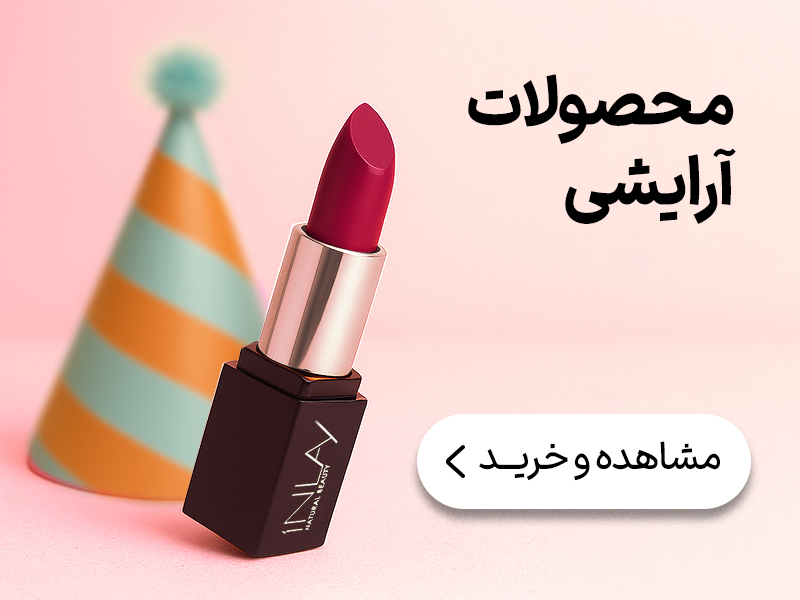
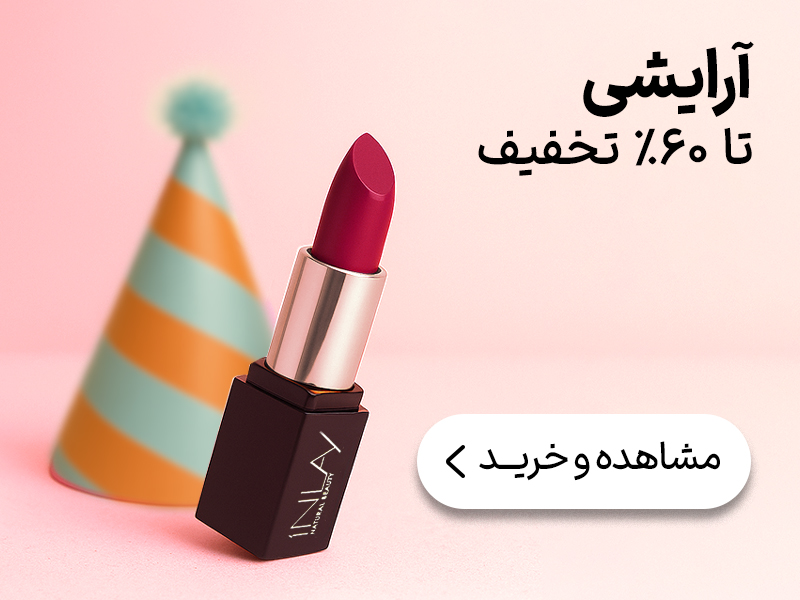
ready to launch

Changed region(s): [[0.0, 0.06, 0.5, 0.96], [0.5625, 0.06, 0.9375, 0.39], [0.125, 0.69, 0.1562, 0.72]]

diff --git a/index.html b/index.html
@@ -4,9 +4,9 @@
 <head>
     <meta charset="UTF-8" />
     <meta name="viewport" content="width=device-width, initial-scale=1.0" />
-    <title>جشن تولد خانومی | هدیه بگیر و خوشحال شو!</title>
+    <title>تولد 11 سالگی خانومی تا 70% تخفیف ( 10 خرداد، ساعت 9 شب)</title>
     <meta name="description"
-        content="در جشن تولد خانومی شرکت کن! محصولات محبوب با تخفیف، هدیه ویژه، و شانس برنده شدن طلا 🎉 فقط برای مدت محدود!">
+        content="جشنواره تولد ۱۱ سالگی خانومی با حراج تمامی محصولات تا ۷۰٪ تخفیف از ۱۹ خرداد 1404 ساعت ۹ شب">
     <link rel="icon" href="https://www.khanoumi.com/favicon.ico" type="image/x-icon">
 
     <link rel="stylesheet" href="styles.css?v=1.0.1" />
@@ -64,12 +64,13 @@
 
 
         <section class="hero-banner" style="margin-top: 8px;">
+            <a href="https://www.khanoumi.com/landing/gamification">
             <picture>
                 <!-- Mobile -->
-                <source media="(max-width: 768px)" srcset="media/candle-355x78.jpg" />
+                <source media="(max-width: 768px)" srcset="media/candle2-355x78.jpg" />
                 <!-- Desktop -->
-                <img src="media/candle-1920x250.jpg" alt="بنر دوم" class="banner-img" />
-            </picture>
+                <img src="media/candle2-1920x250.jpg" alt="بنر دوم" class="banner-img" />
+            </picture></a>
         </section>
 
         <!-- بخش پیشنهاد تولد -->
@@ -161,10 +162,10 @@
         <section class="category-section">
             <h2 class="category-title">جمعمون جمعه، یه دورهمی بزرگ داریم</h2>
             <div class="category-row">
-                <a href="#" class="category-card"><img src="media/01-jute.jpg" alt="محصولات ژوت"></a>
-                <a href="#" class="category-card"><img src="media/01-gynagen.jpg" alt="محصولات ژیناژن"></a>
-                <a href="#" class="category-card"><img src="media/01-sunsafe.jpg" alt="محصولات سان سیف"></a>
-                <a href="#" class="category-card"><img src="media/01-synskin.jpg" alt="محصولات ساین اسکین"></a>
+                <a href="https://www.khanoumi.com/brands/jute" class="category-card"><img src="media/03-jute.jpg" alt="محصولات ژوت"></a>
+                <a href="https://www.khanoumi.com/brands/ginagen" class="category-card"><img src="media/03-gynagen.jpg" alt="محصولات ژیناژن"></a>
+                <a href="https://www.khanoumi.com/brands/sunsafe" class="category-card"><img src="media/03-sunsafe.jpg" alt="محصولات سان سیف"></a>
+                <a href="https://www.khanoumi.com/brands/syn-skin" class="category-card"><img src="media/03-synskin.jpg" alt="محصولات ساین اسکین"></a>
             </div>
         </section>
         <!--  -->
@@ -239,9 +240,9 @@
         <section class="hero-banner" style="margin-top: 8px;">
             <picture>
                 <!-- Mobile -->
-                <source media="(max-width: 768px)" srcset="media/snappay-355x78.jpg" />
+                <source media="(max-width: 768px)" srcset="media/snappay2-355x78.jpg" />
                 <!-- Desktop -->
-                <img src="media/snappay-1920x250.jpg" alt="بنر دوم" class="banner-img" />
+                <img src="media/snappay2-1920x250.jpg" alt="بنر دوم" class="banner-img" />
             </picture>
         </section>
 
@@ -254,22 +255,19 @@
             </picture>
         </section> -->
 
-
-
-
-
         <!-- بخش دستهبندی محصولات -->
         <section class="category-section">
             <h3 class="category-title">یه چرخ بزن، هر چی انتظارشو نداشتی داریم</h3>
             <div class="category-row">
-                <a href="#" class="category-card"><img src="media/02-accessory.jpg" alt="اکسسوری"></a>
-                <a href="#" class="category-card"><img src="media/02-haircare.jpg" alt="مراقبت از مو"></a>
-                <a href="#" class="category-card"><img src="media/02-makeup.jpg" alt="آرایشی"></a>
-                <a href="#" class="category-card"><img src="media/02-moistrizer.jpg" alt="مرطوب کننده"></a>
-                <a href="#" class="category-card"><img src="media/02-sunscreen.jpg" alt="ضدآفتاب"></a>
-                <a href="#" class="category-card"><img src="media/02-complimentary.jpg" alt="مکمل غذایی"></a>
-                <a href="#" class="category-card"><img src="media/02-perfume.jpg" alt="عطر"></a>
-                <a href="#" class="category-card"><img src="media/02-electric.jpg" alt="لوازم برقی"></a>
+                <a href="https://www.khanoumi.com/categories/makeup" class="category-card"><img src="media/02-makeup.jpg" alt="آرایشی"></a>
+                <a href="https://www.khanoumi.com/categories/skincare/face-care/sun-block-sun-protecter" class="category-card"><img src="media/02-sunscreen.jpg" alt="ضدآفتاب"></a>
+                <a href="https://www.khanoumi.com/categories/nutritional-sports-supplement" class="category-card"><img src="media/02-supplement.jpg" alt="مکمل غذایی"></a>
+                <a href="https://www.khanoumi.com/categories/electrical-personal-care" class="category-card"><img src="media/02-electric.jpg" alt="لوازم برقی"></a>
+                <a href="https://www.khanoumi.com/categories/scented-products" class="category-card"><img src="media/02-perfume.jpg" alt="عطر"></a>
+                <a href="https://www.khanoumi.com/categories/hair/hair-care" class="category-card"><img src="media/02-haircare.jpg" alt="مراقبت از مو"></a>
+                <a href="https://www.khanoumi.com/categories/skincare/face-care/moisturizer" class="category-card"><img src="media/02-moistrizer.jpg" alt="مرطوب کننده"></a>
+                <a href="https://www.khanoumi.com/categories/apparel" class="category-card"><img src="media/02-accessory.jpg" alt="اکسسوری"></a>
+
             </div>
             <!-- 
             <h3 class="category-title">جذابهای خانومی</h3>
@@ -332,23 +330,23 @@
         <h2>سوالات متداول</h2>
 
         <div class="qa-item">
-            <button class="qa-question">چطور در جشن تولد شرکت کنم؟</button>
+            <button class="qa-question">حراج تولد خانومی چیست؟</button>
             <div class="qa-answer">
-                فقط کافیه محصولات تخفیفدار رو ببینی، بخری و وارد قرعهکشی بشی!
+                حراج تولد یازده سالگی خانومی، بزرگترین حراج سال 1404 خانومی تا این لحظه است که به مناسبت جشن گرفتن سالگرد شروع به فعالیت خانومی در ماه خرداد برگزار میشود. در طی این حراج محصولات سایت با بیشترین تنوع و تخفیف ممکن قابل تهیه هستند.
             </div>
         </div>
 
         <div class="qa-item">
-            <button class="qa-question">جایزهها چیه؟</button>
+            <button class="qa-question">چگونه در تولد خانومی خرید خوبی داشته باشیم؟</button>
             <div class="qa-answer">
-                از تخفیف ویژه و ارسال رایگان گرفته تا طلا و جوایز شگفتانگیز 🎁
+                برای یک خرید بهیادماندنی از تولد یازده سالگی خانومی، بهتر است از زمان شروع حراج به سایت سر بزنید و محصولات آرایشی و بهداشتی، لوازم شخصی برقی و یا مکملهای داروخانهای موردنیاز خود را انتخاب و به سبد خریدتان اضافه کنید. با توجه به تخفیفهای بینظیر این حراج، تولد خانومی بهترین فرصت برای خرید محصولات مورد نیاز و یا امتحان کردن محصولات جدید با قیمت بهصرفه و کیفیت بالا است. فروشگاه خانومی برای تجربهی خرید هرچهبهتر شما، ضمانت اصالت، کیفیت، پرداخت قسطی و بهترین قیمت تمام محصولات را فراهم میکند.
             </div>
         </div>
 
         <div class="qa-item">
-            <button class="qa-question">چقدر زمان دارم؟</button>
+            <button class="qa-question">علت تخفیفهای فوقالعاده تولد خانومی چیست؟</button>
             <div class="qa-answer">
-                این کمپین فقط تا پایان تولد خانومی فعاله، پس عجله کن!
+                فروشگاه خانومی از طریق ارتباط مستقیم با برندها و تامینکنندههای مطرح در حراج تولد یازده سالگی که به مناسبت سالگرد شروع به فعالیت این فروشگاه برگزار میشود، امکان تهیهی محصولات با بیشترین تخفیف ممکن و خلق تجربهی خریدی بهیادماندنی و شیرین را برای کاربران خود فراهم میکند
             </div>
         </div>
     </section>
